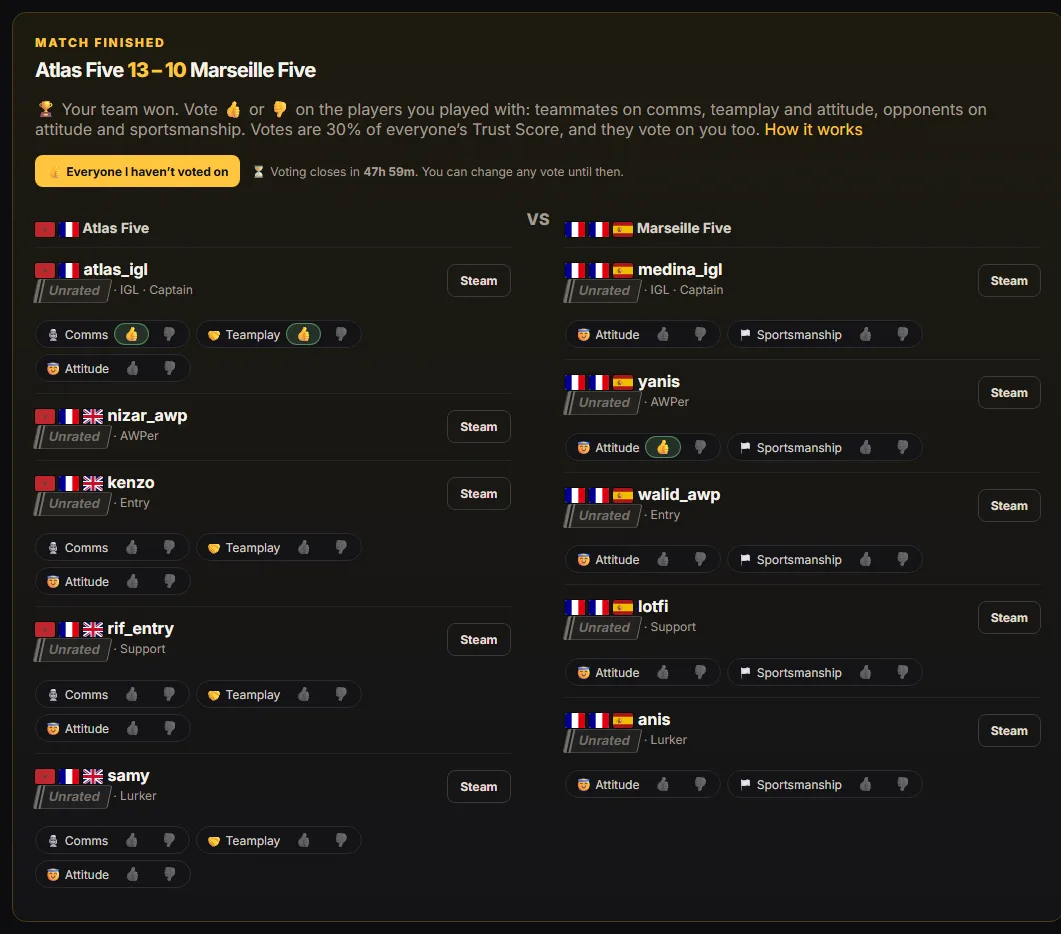
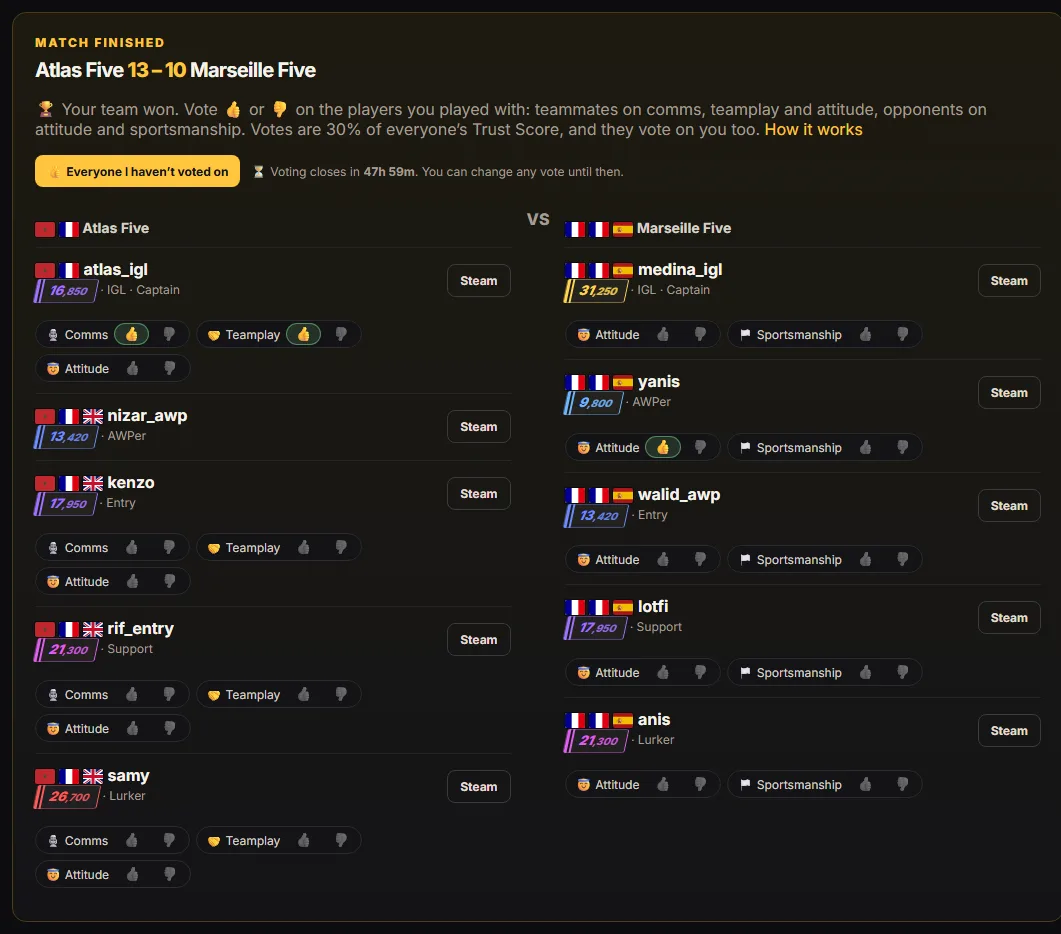
French tester guide (/fr/test), French guide screenshots, country names in French
Tester guide for the live test: before test day, the steps on the day with
screenshots, what we observe, troubleshooting, feedback questions; not
indexed. French screenshot set (GUIDE_LANG=fr) used on the French site.
Country names translated; missed fragments added. Fix: test Premier
ratings use source test so the Leetify refresh keeps them (guide
screenshots showed Unrated). Audit word list extended.

diff --git a/public/app.js b/public/app.js
@@ -104,7 +104,7 @@ const Stack5 = (() => {
     return `<span class="premier t-${cls}" title="CS2 Premier rating · ${name} tier (self-reported)">${i<0?`<b>${txt}</b>`:`<b>${txt.slice(0,i)}</b><small>${txt.slice(i)}</small>`}</span>`;
   }
   const LEETIFY_ATTR='<a class="leetify-attr" href="https://leetify.com/" target="_blank" rel="noopener">Data Provided by Leetify</a>';
-  const premierSource=p=>p?.premier_source==='leetify'?LEETIFY_ATTR:p?.premier_rating!=null?'<span class="muted small">self-reported</span>':'';
+  const premierSource=p=>['leetify','test'].includes(p?.premier_source)?LEETIFY_ATTR:p?.premier_rating!=null?'<span class="muted small">self-reported</span>':'';
   function premierRange(min,max){
     min=Number(min)||0; max=Number(max??40000);
     if(!min && max>=40000) return '<span class="muted">Any Premier rating</span>';
@@ -526,7 +526,7 @@ const Stack5 = (() => {
         <div class="eyebrow">// Beta countries</div>
         <h2>Open in <em>12 countries</em>, more soon</h2>
         <p class="section-lead" style="margin-top:14px">The beta starts small on purpose: Morocco and the English, French, Spanish and Portuguese-speaking countries of Europe, close enough for good ping and a shared language on comms. We’ll open more countries step by step. Not on the list? <a href="/contact" style="color:var(--accent)">Tell us where you play</a>.</p>
-        <div class="beta-grid">${BETA.map(([c,n])=>`<div class="beta-country">${countryFlag(c)}<span>${n}</span></div>`).join('')}</div>
+        <div class="beta-grid">${BETA.map(([c])=>`<div class="beta-country">${countryFlag(c)}<span>${countryName(c)}</span></div>`).join('')}</div>
       </div></section>
 
       <section class="ne-sec" id="tournaments"><div class="container" style="padding-top:0;padding-bottom:0">
@@ -597,7 +597,7 @@ const Stack5 = (() => {
     ['1-sign-in',496,434,'Sign in with Steam','Click <strong>Sign in with Steam</strong>. You log in on Steam’s own website: check the address bar says <code>steamcommunity.com</code>. CleanLobby only receives your public SteamID. It never sees your password and can’t touch your inventory or trades.'],
     ['2-pick-username',436,366,'Pick your username','First time only: choose a CleanLobby username. Email is optional (for match notifications). Confirm you’re 16 or older and accept the Terms.'],
     ['3-profile-setup',784,646,'Set up your player profile','Country (the beta is open in 12 countries; it decides which teams you can play: only ones close enough for good ping), main role and the languages you speak (your teammates need one in common). Your CS2 Premier rating is read from Leetify automatically. Teams see this when they look for players.'],
-    ['4-build-team',1061,717,'Build your five','Create a team and invite players by their CleanLobby username, or find them on <a href="/players">Find Players</a>. Prefer joining a team? Browse <a href="/teams">Find a Team</a> and ask to join. An open team disbands after 6 hours without a new player.'],
+    ['4-build-team',1061,614,'Build your five','Create a team and invite players by their CleanLobby username, or find them on <a href="/players">Find Players</a>. Prefer joining a team? Browse <a href="/teams">Find a Team</a> and ask to join. An open team disbands after 6 hours without a new player.'],
     ['5-full-team-queue',705,609,'Five players? Find a match','When your team has 5 players, the captain clicks <strong>Find match</strong>. Everyone must meet the CleanLobby requirements: Steam account at least 2 years old, 500+ hours of CS2, no recent VAC or game ban.'],
     ['6-searching',705,667,'Searching for an opponent','CleanLobby looks for another full team close enough for good ping (their players’ countries within about 2,500 km of yours) with a similar Premier rating. This runs every 30 seconds. After 2 hours without a match, your team leaves the queue.'],
     ['7-match-found',1061,592,'Match found: captains accept','Both captains have <strong>5 minutes</strong> to accept. Declining or letting the time run out counts against the captain’s reliability.'],
@@ -605,6 +605,10 @@ const Stack5 = (() => {
     ['9-result-and-ratings',1061,934,'Report the score, then vote','After the game, both captains report the score. When they match, the result is final and everyone has <strong>48 hours</strong> to vote 👍 or 👎 on the players they played with: teammates on comms, teamplay and attitude, opponents on attitude and sportsmanship. Skill isn’t voted on: that’s your Premier rating. Different scores go to an admin.'],
     ['10-trust-score',1061,454,'Build your Trust Score','Your Trust Score (0–100) combines your Steam history, 👍/👎 votes from people you played with, reliability and matches played. Your profile also shows the % of 👍 for each aspect. It’s public on your profile and helps teams decide who to play with. <strong>60 and above is good.</strong> See <a href="#trust-score">how it works and how to raise it</a>.']
   ];
+  // French screenshots (GUIDE_LANG=fr node scripts/guide-screenshots.mjs): id -> [width, height]
+  const GUIDE_SIZES_FR={'1-sign-in':[496,434],'2-pick-username':[436,366],'3-profile-setup':[784,676],'4-build-team':[1061,629],'5-full-team-queue':[705,609],'6-searching':[705,667],'7-match-found':[1061,612],'8-match-room':[1061,1109],'9-result-and-ratings':[1061,954],'10-trust-score':[1061,454]};
+  const guideImg=id=>{ const g=GUIDE_STEPS.find(s=>s[0]===id), fr=(LANG==='fr'||appPath()==='/test')&&GUIDE_SIZES_FR[id];
+    return { src:`/img/guide/${fr?'fr/':''}${id}.webp`, w:fr?fr[0]:g[1], h:fr?fr[1]:g[2] }; };
   const GUIDE_FAQ=[
     ['Is signing in with Steam safe?','Yes. You sign in on steamcommunity.com, never on CleanLobby. We only receive your public SteamID. CleanLobby will never ask for your Steam Guard code, an API key or your trade link. If a page asks for those, it isn’t us.'],
     ['Why can’t I play yet?','Your Steam profile and game details must be public so we can check the requirements (2+ year old account, 500+ hours of CS2, no VAC or game ban in the last 2 years). The Play page shows which check is missing. After changing your Steam privacy, wait a few minutes and click Check again.'],
@@ -625,7 +629,7 @@ const Stack5 = (() => {
       <nav class="guide-toc" aria-label="Steps">${GUIDE_STEPS.map(([,,,t],i)=>`<a href="#step-${i+1}">${i+1}. ${esc(t)}</a>`).join('')}<a href="#trust-score">Trust Score</a><a href="#faq">Questions</a></nav>
       ${GUIDE_STEPS.map(([id,w,h,t,text],i)=>`<section class="guide-step" id="step-${i+1}">
         <div class="guide-text"><div class="step-num">STEP ${i+1}</div><h2>${esc(t)}</h2><p>${text}</p></div>
-        <figure><img src="/img/guide/${id}.webp" width="${w}" height="${h}" loading="${i<2?'eager':'lazy'}" alt="${esc(t)}: screenshot of CleanLobby"><figcaption class="muted small">Example players and teams.</figcaption></figure>
+        <figure><img src="${guideImg(id).src}" width="${guideImg(id).w}" height="${guideImg(id).h}" loading="${i<2?'eager':'lazy'}" alt="${esc(t)}: screenshot of CleanLobby"><figcaption class="muted small">Example players and teams.</figcaption></figure>
       </section>`).join('')}
       <section class="panel guide-trust" id="trust-score" style="margin-top:28px">
         <div class="step-num">TRUST SCORE</div><h2>How the Trust Score works</h2>
@@ -646,6 +650,65 @@ const Stack5 = (() => {
       </section>
       <section class="panel" id="faq" style="margin-top:28px"><h2>Questions</h2>${GUIDE_FAQ.map(([q,a])=>`<details class="faq"><summary>${esc(q)}</summary><p>${a}</p></details>`).join('')}</section>
       <div class="cta" style="margin-top:24px"><h2>Ready?</h2><p>Sign in, set up your profile and build your five.</p><div class="actions"><a class="btn btn-green" href="/login" data-guest-cta>Sign in with Steam</a></div></div>
+    </div>`,'guide');
+  }
+
+  // ---------- Test day guide (French, shared with testers only; not indexed) ----------
+  function testPage(){
+    const img=(id,alt)=>{ const g=GUIDE_STEPS.find(s=>s[0]===id), gi=g&&guideImg(id); return g?`<figure><img src="${gi.src}" width="${gi.w}" height="${gi.h}" loading="lazy" alt="${esc(alt)}"><figcaption class="muted small">Joueurs et équipes d’exemple.</figcaption></figure>`:''; };
+    const step=(n,title,body,shot,alt)=>`<section class="guide-step"><div class="guide-text"><div class="step-num">${n}</div><h2>${title}</h2>${body}</div>${shot?img(shot,alt):'<div></div>'}</section>`;
+    layout('Guide du testeur',`<div class="container guide test-guide" data-no-i18n>
+      <div class="eyebrow">JOUR DE TEST · BÊTA</div><h1>Guide du testeur</h1>
+      <p class="subtitle">Merci de tester CleanLobby ! Voici tout ce qu’il faut faire, avant et pendant le test. Garde cette page ouverte sur ton téléphone le jour J.</p>
+      <div class="notice">📅 <strong>Date, heure et équipes :</strong> annoncées sur le groupe WhatsApp / Discord. Sois connecté sur Steam et CS2 <strong>15 minutes avant</strong>.</div>
+      <nav class="guide-toc" aria-label="Sommaire"><a href="#avant">1. Avant le test</a><a href="#jour-j">2. Le jour J</a><a href="#observer">3. Ce qu’on observe</a><a href="#depannage">4. Si ça bloque</a><a href="#apres">5. Après le test</a></nav>
+
+      <h2 id="avant" class="test-h">1. Avant le test : à faire dès maintenant</h2>
+      <p class="muted">Ça prend 5 minutes. Fais-le avant le jour J : s’il y a un souci avec ton compte, on a le temps de le régler.</p>
+      ${step('ÉTAPE 1','Connecte-toi avec Steam',`<p>Va sur <a href="/fr/login"><strong>cleanlobby.com/fr</strong></a> et clique sur <strong>Se connecter via Steam</strong>. Tu te connectes sur le site officiel de Steam : vérifie que l’adresse affiche <code>steamcommunity.com</code>. CleanLobby ne voit jamais ton mot de passe.</p><p>Première fois : choisis ton pseudo CleanLobby et accepte les conditions.</p>`,'1-sign-in','Connexion avec Steam')}
+      ${step('ÉTAPE 2','Rends ton profil Steam public',`<p>On vérifie que ton compte est réel : <strong>compte Steam de 2 ans ou plus</strong>, <strong>500 heures de CS2</strong> ou plus, <strong>pas de ban VAC ou de jeu récent</strong>. Pour ça, ton profil et tes détails de jeu doivent être publics :</p><p>Steam → Modifier le profil → Paramètres de confidentialité → <strong>Mon profil : Public</strong> et <strong>Détails de jeu : Public</strong>. <a href="https://steamcommunity.com/my/edit/settings" target="_blank" rel="noopener">Ouvrir les paramètres Steam</a></p>`)}
+      ${step('ÉTAPE 3','Complète ton profil de joueur',`<p>Sur la page <a href="/fr/play">Jouer</a> : ton <strong>pays</strong> (la bêta est ouverte dans 12 pays), ton <strong>rôle</strong> et <strong>toutes les langues que tu parles</strong>. Coche-les toutes : tes coéquipiers doivent avoir une langue en commun avec toi.</p>`,'3-profile-setup','Profil de joueur')}
+      ${step('ÉTAPE 4','Vérifie ton rating Premier',`<p>Ton rating Premier vient automatiquement de <strong>Leetify</strong>, personne ne peut le truquer. Pas de compte Leetify ? Connecte-toi une fois sur <a href="https://leetify.com/" target="_blank" rel="noopener">leetify.com</a> avec Steam, puis clique sur <strong>Revérifier Leetify</strong> sur la page Jouer.</p><p>Pas de rating Premier du tout ? Tu peux quand même jouer : tu seras « Non classé ».</p>`)}
+      ${step('ÉTAPE 5','Tout doit être ✅',`<p>Sur la page <a href="/fr/play">Jouer</a>, ton profil doit afficher <strong>VÉRIFIÉ · Remplit les conditions CleanLobby</strong>. Un ❌ quelque part ? Le message te dit quoi corriger. Toujours bloqué ? Envoie une capture d’écran sur le groupe.</p>`)}
+
+      <h2 id="jour-j" class="test-h">2. Le jour J</h2>
+      ${step('CAPITAINES','Montez vos équipes',`<p>Chaque capitaine crée son équipe sur la page <a href="/fr/play">Jouer</a> et invite ses 4 joueurs avec leur <strong>pseudo CleanLobby</strong>. Les joueurs acceptent l’invitation sur leur page Jouer.</p><p>Quand l’équipe a 5 joueurs, le capitaine clique sur <strong>Trouver un match</strong>.</p>`,'4-build-team','Monter son équipe')}
+      ${step('MATCH TROUVÉ','Les deux capitaines acceptent',`<p>Quand un adversaire est trouvé, les deux capitaines ont <strong>5 minutes</strong> pour cliquer sur <strong>Accepter</strong>. Restez sur la page Jouer pendant la recherche.</p>`,'7-match-found','Match trouvé')}
+      ${step('DANS CS2','Une party de 5 par équipe, un seul code',`<ol class="test-list">
+          <li><strong>Chaque capitaine</strong> invite ses 4 coéquipiers dans sa <strong>party CS2</strong> (boutons Steam dans le salon du match). Chaque équipe doit être <strong>une seule party de 5</strong>, sinon CS2 mélange les joueurs.</li>
+          <li><strong>Un capitaine</strong> crée le salon : Play → Matchmaking → Private Matchmaking → <strong>Create a Private Matchmaking Pool</strong>, copie le code complet et le colle sur CleanLobby.</li>
+          <li><strong>L’autre capitaine</strong> copie le code depuis CleanLobby et l’entre avec <strong>Manually Enter a Code</strong>.</li>
+          <li><strong>Les deux parties appuient sur GO.</strong> Le match démarre quand les 10 joueurs cherchent.</li></ol>
+          <p class="muted">Option : partagez un salon vocal Discord pour votre équipe dans le salon du match. Seule votre équipe le voit.</p>`,'8-match-room','Salon du match')}
+      ${step('APRÈS LA PARTIE','Score, puis votes',`<p>Les <strong>deux capitaines déclarent le score</strong> (le même !). Ensuite, <strong>tout le monde vote</strong> 👍 ou 👎 pendant 48 heures : coéquipiers sur les comms, le jeu d’équipe et l’attitude, adversaires sur l’attitude et le fair-play. Le bouton <strong>👍 Tous ceux pour qui je n’ai pas voté</strong> fait tout en un clic, puis change ce que tu veux.</p>`,'9-result-and-ratings','Score et votes')}
+
+      <h2 id="observer" class="test-h">3. Ce qu’on observe pendant le test</h2>
+      <div class="panel test-box"><ul class="test-list">
+        <li>Est-ce que <strong>les deux parties de 5 restent bien ensemble</strong> avec un seul code ? Personne ne se retrouve dans la mauvaise équipe ?</li>
+        <li>À quoi ressemble <strong>le code de Private Matchmaking</strong> (long avec des tirets, ou 6 chiffres) ?</li>
+        <li><strong>Combien de temps</strong> entre « Match trouvé » et le début de la partie ?</li>
+        <li>Tout ce qui était <strong>confus, lent ou cassé</strong> : fais une capture d’écran sur le moment.</li>
+      </ul></div>
+
+      <h2 id="depannage" class="test-h">4. Si ça bloque</h2>
+      <div class="test-faq">
+        <details class="faq"><summary>Le code ne marche pas</summary><p>Vérifie que le code a été copié en entier (avec les tirets). Le capitaine qui a créé le salon peut <strong>Remplacer</strong> le code sur CleanLobby à tout moment.</p></details>
+        <details class="faq"><summary>CS2 a mélangé les joueurs entre les équipes</summary><p>Quittez, et vérifiez que <strong>chaque équipe est une seule party de 5</strong> avant d’appuyer sur GO. Puis relancez avec le même code.</p></details>
+        <details class="faq"><summary>Un joueur de l’équipe n’est pas là</summary><p>Prévenez le groupe tout de suite. Pendant le test, on ne fait pas jouer quelqu’un qui n’est pas dans l’équipe sur CleanLobby.</p></details>
+        <details class="faq"><summary>Les capitaines ont déclaré des scores différents</summary><p>Le match passe en « Résultat contesté » et un admin tranche. On est en ligne pendant tout le test.</p></details>
+        <details class="faq"><summary>Je ne peux pas rejoindre ou créer d’équipe</summary><p>Ton compte ne remplit pas encore une condition : regarde la liste ✅/❌ sur la page Jouer. Profil Steam rendu public à l’instant ? Attends quelques minutes et clique sur <strong>Revérifier</strong>.</p></details>
+        <details class="faq"><summary>Un bug ou une erreur</summary><p>Capture d’écran + un message sur le groupe, ou via la <a href="/fr/contact">page Contact</a>. Dis ce que tu faisais juste avant.</p></details>
+      </div>
+
+      <h2 id="apres" class="test-h">5. Après le test : ton avis compte</h2>
+      <div class="panel test-box"><p style="margin-top:0">Réponds à ces questions sur le groupe ou via la <a href="/fr/contact">page Contact</a> :</p><ol class="test-list">
+        <li>Qu’est-ce qui était <strong>confus</strong> ou compliqué ?</li>
+        <li>Quels <strong>bugs</strong> as-tu vus ?</li>
+        <li>Est-ce que tu <strong>rejouerais chaque semaine</strong> sur CleanLobby ?</li>
+        <li><strong>Premium</strong> : un match sur serveur privé avec un vrai admin (stream d’écran, kick des cheaters). Ça t’intéresse ? <strong>Combien</strong> serais-tu prêt à payer ?</li>
+        <li>Ce qui t’a <strong>plu</strong>, et ce que tu changerais en premier.</li>
+      </ol></div>
+      <div class="cta" style="margin-top:24px"><h2>Prêt ?</h2><p>Connecte-toi, complète ton profil et vérifie que tout est ✅.</p><div class="actions"><a class="btn btn-green" href="/fr/play">Aller sur la page Jouer</a><a class="btn btn-dark" href="/fr/guide">Le guide complet</a></div></div>
     </div>`,'guide');
   }
 
@@ -739,8 +802,9 @@ const Stack5 = (() => {
   const LANGS=[['EN','English'],['FR','Français'],['ES','Español'],['PT','Português']];   // beta languages
   // Countries open in the beta (same list as BETA_COUNTRIES in src/regions.js).
   const BETA=[['MA','Morocco'],['FR','France'],['BE','Belgium'],['CH','Switzerland'],['LU','Luxembourg'],['MC','Monaco'],['ES','Spain'],['AD','Andorra'],['PT','Portugal'],['GB','United Kingdom'],['IE','Ireland'],['MT','Malta']];
-  const countryName=c=>(BETA.find(x=>x[0]===c)||[c,c||''])[1];
-  const countryOptions=(label)=>`<option value="">${label}</option>${BETA.map(([c,n])=>`<option value="${c}">${n}</option>`).join('')}`;
+  const COUNTRY_FR={MA:'Maroc',FR:'France',BE:'Belgique',CH:'Suisse',LU:'Luxembourg',MC:'Monaco',ES:'Espagne',AD:'Andorre',PT:'Portugal',GB:'Royaume-Uni',IE:'Irlande',MT:'Malte'};
+  const countryName=c=>LANG==='fr'&&COUNTRY_FR[c]||(BETA.find(x=>x[0]===c)||[c,c||''])[1];
+  const countryOptions=(label)=>`<option value="">${label}</option>${BETA.map(([c])=>`<option value="${c}">${countryName(c)}</option>`).join('')}`;
   const btn=(label,act,cls='btn-dark',data={})=>`<button class="btn btn-small ${cls}" data-act="${act}" ${Object.entries(data).map(([k,v])=>`data-${k}="${esc(v)}"`).join(' ')}>${esc(label)}</button>`;
   const realSteam=p=>/^https:\/\/(www\.)?steamcommunity\.com\//.test(p?.steam_url||'');
   // Names are shown as typed, never translated.
@@ -1042,7 +1106,7 @@ const Stack5 = (() => {
       <form data-form="profile" class="form-grid" style="margin-top:18px">
         ${steamField}
         <div><label>Display name</label><input class="input" name="display_name" maxlength="40" value="${esc(d.account.username)}" required></div>
-        <div><label>Country</label><select name="country" required>${cat.countries.filter(c=>c.open).map(c=>`<option value="${c.code}" ${c.code==='MA'?'selected':''}>${c.flag} ${esc(c.name)}</option>`).join('')}</select>
+        <div><label>Country</label><select name="country" required>${cat.countries.filter(c=>c.open).map(c=>`<option value="${c.code}" ${c.code==='MA'?'selected':''}>${c.flag} ${esc(countryName(c.code))}</option>`).join('')}</select>
           <div class="muted small" style="margin-top:5px">The beta is open in these countries only. <a href="/guide#beta-countries" style="color:var(--accent)">More countries later</a>.</div></div>
         <div><label>CS2 Premier rating</label><div class="input" style="color:var(--muted)">Read from Leetify automatically</div>
           <div class="muted small" style="margin-top:5px">We copy it from your <a href="https://leetify.com/" target="_blank" rel="noopener" style="color:var(--accent)">Leetify</a> profile, so nobody can fake it. No Leetify yet? Sign in there once with Steam.</div></div>
@@ -1203,6 +1267,7 @@ const Stack5 = (() => {
     if(p==='/matches') return matchesPage();
     if(p==='/contact') return contactPage();
     if(p==='/guide') return guidePage();
+    if(p==='/test') return testPage();
     if(p==='/rankings') return layout('Rankings',`<div class="container"><div class="eyebrow">RANKINGS</div><h1>Rankings</h1><div class="empty">Rankings coming next.</div></div>`,'rankings');
     if(p.startsWith('/team/')) return teamProfile(p.split('/')[2]);
     return home();

diff --git a/src/server.js b/src/server.js
@@ -376,7 +376,7 @@ app.post("/api/profile", auth, csrf, async (req, res) => {
     const result = db.transaction(() => {
       const existing = db.prepare("SELECT id FROM players WHERE steam_url=? OR (steam_id IS NOT NULL AND steam_id=?)").get(steamUrl, steamId);
       if (existing) throw new Error("This Steam profile is already linked to a CleanLobby player.");
-      const r = db.prepare(`INSERT INTO players(steam_url,steam_id,steam_verified,steam_verified_at,display_name,avatar_url,premier_rating,premier_source,region,country,language,languages,role) VALUES(?,?,?,?,?,?,?,?,?,?,?,?,?)`).run(steamUrl,steamId,1,Date.now(),name,safeAvatarUrl(req.body.avatar_url),testPremier,testPremier!=null?"leetify":null,region.id,country[0],languages[0],languages.join(","),String(req.body.role).slice(0,20));
+      const r = db.prepare(`INSERT INTO players(steam_url,steam_id,steam_verified,steam_verified_at,display_name,avatar_url,premier_rating,premier_source,region,country,language,languages,role) VALUES(?,?,?,?,?,?,?,?,?,?,?,?,?)`).run(steamUrl,steamId,1,Date.now(),name,safeAvatarUrl(req.body.avatar_url),testPremier,testPremier!=null?"test":null,region.id,country[0],languages[0],languages.join(","),String(req.body.role).slice(0,20));
       db.prepare("UPDATE accounts SET player_id=? WHERE id=?").run(r.lastInsertRowid, req.account.account_id);
       return r.lastInsertRowid;
     })();
@@ -1091,10 +1091,10 @@ contact@cleanlobby.com
 `));
 for(const [p,page] of Object.entries(PAGES)) app.get(p,(req,res)=>sendApp(req,res,page));
 for(const [p,page] of Object.entries(PAGES_FR)) app.get(p==="/"?"/fr":"/fr"+p,(req,res)=>sendApp(req,res,page,{lang:"fr"}));
-for(const p of ["/fr/play","/fr/account","/fr/player/:username","/fr/team/:id"]) app.get(p,(req,res)=>sendApp(req,res,PAGES_FR["/"],{index:false,lang:"fr"}));
+for(const p of ["/fr/play","/fr/account","/fr/player/:username","/fr/team/:id","/fr/test"]) app.get(p,(req,res)=>sendApp(req,res,PAGES_FR["/"],{index:false,lang:"fr"}));
 app.get("/fr/*splat",(req,res)=>sendApp(req,res,{ ...PAGES_FR["/"], title:"Page introuvable · CleanLobby", heading:"Page introuvable" },{index:false,status:404,lang:"fr"}));
 // Personal and per-player pages work normally but stay out of search results.
-for(const p of ["/play","/account","/player/:username","/team/:id"]) app.get(p,(req,res)=>sendApp(req,res,PAGES["/"],{index:false}));
+for(const p of ["/play","/account","/player/:username","/team/:id","/test"]) app.get(p,(req,res)=>sendApp(req,res,PAGES["/"],{index:false}));
 app.get("*splat",(req,res)=>sendApp(req,res,{ ...PAGES["/"], title:"Page not found · CleanLobby", heading:"Page not found" },{index:false,status:404}));
 // Time limits (idle teams, queue, match accept window). TIMERS_INTERVAL_SECONDS=0 disables.
 const timersEvery=Number(process.env.TIMERS_INTERVAL_SECONDS ?? 30);

diff --git a/public/i18n/fr.js b/public/i18n/fr.js
@@ -665,6 +665,8 @@ window.CL_FR = {
   "No match is being played right now.": "Aucun match en cours pour l’instant.",
   "No finished matches yet.": "Pas encore de match terminé.",
   "Country (the beta is open in 12 countries; it decides which teams you can play: only ones close enough for good ping), main role and the languages you speak (your teammates need one in common). Your CS2 Premier rating is read from Leetify automatically. Teams see this when they look for players.": "Ton pays (la bêta est ouverte dans 12 pays ; il décide contre quelles équipes tu peux jouer : seulement celles assez proches pour un bon ping), ton rôle principal et les langues que tu parles (tes coéquipiers ont besoin d’une langue en commun). Ton rating Premier CS2 est lu automatiquement sur Leetify. C’est ce que voient les équipes quand elles cherchent des joueurs.",
+  ". Follow these steps:": " de CS2. Suis ces étapes :",
+  "🗣 Everyone speaks": "🗣 Tout le monde parle",
   // ---------- server messages (toasts and errors) ----------
   "Authentication required": "Connexion requise",
   "Session expired. Please log in again.": "Session expirée. Reconnecte-toi.",

diff --git a/src/external.js b/src/external.js
@@ -144,7 +144,7 @@ const leetifyCache = new Map();   // steamId -> { at, data } ; short-lived to re
  */
 export async function syncPremierFromLeetify(playerId) {
   const p = db.prepare("SELECT id, steam_id, premier_source FROM players WHERE id=?").get(playerId);
-  if (!p || !p.steam_id || p.premier_source === "self") return null;
+  if (!p || !p.steam_id || p.premier_source === "self" || p.premier_source === "test") return null;   // "test": set by tests (NODE_ENV=test), no Leetify there
   const data = await leetifyProfile(p.steam_id);
   const rating = Number(data?.premier) > 0 ? Math.round(Number(data.premier)) : null;
   if (rating) db.prepare("UPDATE players SET premier_rating=?, premier_source='leetify', premier_synced_at=? WHERE id=?").run(rating, Date.now(), playerId);

diff --git a/public/app.css b/public/app.css
@@ -431,3 +431,10 @@ footer{border-top:1px solid #1c1c21;margin-top:70px;padding:30px 24px;color:#757
 .header-right{margin-left:0}
 @media(max-width:850px){.lang-switch{margin-left:auto;margin-right:6px}}
 .nav a,.header-right .btn{white-space:nowrap}
+
+/* Test day guide (/fr/test) */
+.test-guide .notice{max-width:none}
+.test-h{font-family:var(--display);font-weight:400;text-transform:uppercase;font-size:clamp(28px,3.4vw,40px);margin:56px 0 6px;scroll-margin-top:90px}
+.test-list{margin:10px 0 0;padding-left:20px;display:grid;gap:8px;color:#d6d1c7;line-height:1.6}
+.test-box{margin-top:14px}
+.test-faq{margin-top:10px}

diff --git a/docs/README.md b/docs/README.md
@@ -39,6 +39,7 @@ How every part of CleanLobby works: what players see, the rules behind it, and w
 
 ## Changelog
 
+- **2026-10-05:** French tester guide at `/fr/test` (not indexed, shared with live-test players). French screenshots for the French guide (`public/img/guide/fr`). Country names translated on the French site. Fix: test players kept their Premier ratings (source `test`, skipped by the Leetify refresh), so the guide screenshots show ratings again.
 - **2026-10-05:** French version of the whole site under `/fr` (including sign-in, welcome, Terms and Privacy), 🇺🇸/🇫🇷 switch in every header, `cl_lang` cookie to come back to the chosen language after Steam sign-in, French titles/descriptions/crawler text, hreflang and sitemap. "Closed beta" and "free during the beta" wording removed (CleanLobby stays free; Premium will be an optional extra). Terms and Privacy corrected (votes instead of ratings, no regions, Trust Score weight 20%). Eggs videos re-rendered without "free beta".
 - **2026-10-05:** Beta limited to 12 countries (Morocco + English, French, Spanish, Portuguese-speaking Europe; new eligibility check) and 4 languages; regions removed from the site (filters by country). Premier rating can no longer be typed: only read from Leetify ("Check Leetify again" button; typed ratings deleted). Home: beta countries section and **Premium · coming soon** (private servers with an admin; "Become a Premium match admin" contact topic). Terms, Privacy, guide FAQ updated.
 - **2026-10-05:** Votes replace star ratings: 👍/👎 per aspect after each match for 48 hours (teammates: comms, teamplay, attitude; opponents: attitude, sportsmanship; skill is left to the Premier rating), one set per match, "👍 everyone" shortcut, % of 👍 per aspect on profiles, weakest-aspect tip. Privacy Policy and guide updated.

diff --git a/docs/french.md b/docs/french.md
@@ -20,4 +20,12 @@ When you add or change English text, add the French line to `public/i18n/fr.js`,
 - `node scripts/i18n-extract.mjs` lists strings found in the code with no French translation (it also lists code strings, which can be ignored).
 - `I18N_AUDIT=1 node scripts/guide-screenshots.mjs` plays a full match on the `/fr` pages and lists text that still looks English (written to `%TEMP%/i18n-audit.json`). Known false alarms: the CS2 menu path "Play → Matchmaking → …" (kept as in the game), French sentences containing "fair-play" or "matchmaking", flag tooltips.
 
+## French screenshots
+
+The French guide (`/fr/guide`) and the tester guide use French screenshots from `public/img/guide/fr/`: `GUIDE_LANG=fr node scripts/guide-screenshots.mjs`, then update `GUIDE_SIZES_FR` in `public/app.js` (the English set stays in `public/img/guide/`).
+
+## Tester guide
+
+`cleanlobby.com/fr/test` (also `/test`): a French page for live-test players: what to do before test day (Steam public, profile, languages, Leetify, all ✅), the steps on the day with screenshots, what we observe, troubleshooting, and the feedback questions. Not linked anywhere and not indexed (`noindex`): share the link with testers. Code: `testPage()` in `public/app.js`.
+
 Emails (verification, contact form) stay in English.
